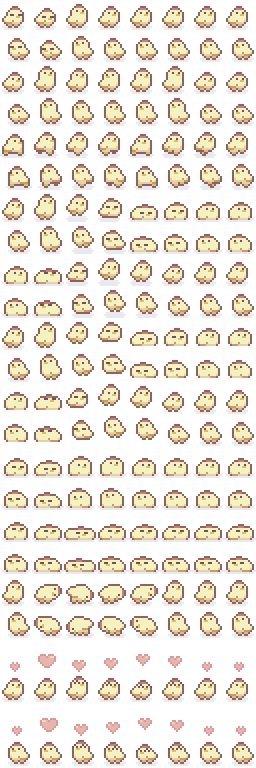
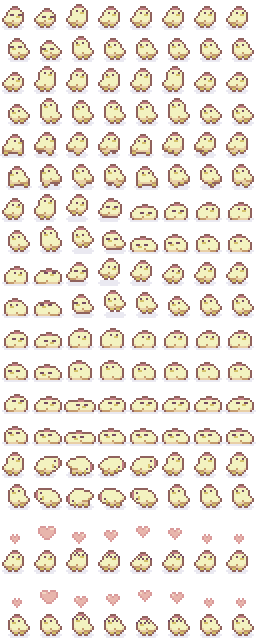
interact with chickens

diff --git a/entity/game/init.go b/entity/game/init.go
@@ -36,20 +36,29 @@ func (g *Game) Draw(screen *ebiten.Image) {
 	// draw chickens
 	for _, c := range g.Chickens {
 		drawOptions.GeoM.Reset()
-		drawOptions.GeoM.Translate(float64(c.XLoc), float64(c.YLoc))
-		screen.DrawImage(c.Spritesheet.SubImage(image.Rect(c.Frame*c.SpriteWidth,
-			(c.State*utils.AnimalNumOfDirections+c.Direction)*c.SpriteHeight,
-			c.Frame*c.SpriteWidth+c.SpriteWidth,
-			(c.State*utils.NumOfDirections+c.Direction)*c.SpriteHeight+c.SpriteHeight)).(*ebiten.Image), &drawOptions)
+
+		var spriteHeight, yLoc int
+		if c.State == utils.ChickenHeartState {
+			spriteHeight = utils.UnitSize * 2
+			yLoc = c.YLoc - utils.UnitSize
+		} else {
+			spriteHeight = c.Sprite.Height
+			yLoc = c.YLoc
+		}
+		drawOptions.GeoM.Translate(float64(c.XLoc), float64(yLoc))
+		screen.DrawImage(c.Spritesheet.SubImage(image.Rect(c.Frame*c.Sprite.Width,
+			(c.State*utils.AnimalNumOfDirections+c.Direction)*c.Sprite.Height,
+			c.Frame*c.Sprite.Width+c.Sprite.Width,
+			(c.State*utils.AnimalNumOfDirections+c.Direction)*c.Sprite.Height+spriteHeight)).(*ebiten.Image), &drawOptions)
 	}
 
 	// draw player
 	drawOptions.GeoM.Reset()
 	drawOptions.GeoM.Translate(float64(g.Player.XLoc), float64(g.Player.YLoc))
-	screen.DrawImage(g.Player.Spritesheet.SubImage(image.Rect(g.Player.Frame*g.Player.SpriteWidth,
-		(g.Player.State*utils.NumOfDirections+g.Player.Direction)*g.Player.SpriteHeight,
-		g.Player.Frame*g.Player.SpriteWidth+g.Player.SpriteWidth,
-		(g.Player.State*utils.NumOfDirections+g.Player.Direction)*g.Player.SpriteHeight+g.Player.SpriteHeight)).(*ebiten.Image), &drawOptions)
+	screen.DrawImage(g.Player.Spritesheet.SubImage(image.Rect(g.Player.Frame*g.Player.Sprite.Width,
+		(g.Player.State*utils.NumOfDirections+g.Player.Direction)*g.Player.Sprite.Height,
+		g.Player.Frame*g.Player.Sprite.Width+g.Player.Sprite.Width,
+		(g.Player.State*utils.NumOfDirections+g.Player.Direction)*g.Player.Sprite.Height+g.Player.Sprite.Height)).(*ebiten.Image), &drawOptions)
 
 	// draw tools ui
 	drawOptions.GeoM.Reset()

diff --git a/entity/animal/chicken.go b/entity/animal/chicken.go
@@ -15,24 +15,27 @@ type Chicken struct {
 	YLoc         int
 	Dx           int
 	Dy           int
-	SpriteWidth  int
-	SpriteHeight int
+	Sprite       model.SpriteBody
 	Collision    model.CollisionBody
 	Destination  utils.Location
 	AnimationTTL int
 }
 
-func NewChicken(spritesheet *ebiten.Image) *Chicken {
-	xLoc := 5 * utils.TileWidth
-	yLoc := 5 * utils.TileHeight
+func NewChicken(spritesheet *ebiten.Image, tileX, tileY int) *Chicken {
+	xLoc := tileX * utils.TileWidth
+	yLoc := tileY * utils.TileHeight
 	return &Chicken{
-		Spritesheet:  spritesheet,
-		State:        utils.ChickenIdleState,
-		Direction:    utils.AnimalRight,
-		XLoc:         xLoc,
-		YLoc:         yLoc,
-		SpriteWidth:  utils.UnitSize,
-		SpriteHeight: utils.UnitSize,
+		Spritesheet: spritesheet,
+		State:       utils.ChickenIdleState,
+		Direction:   utils.AnimalRight,
+		XLoc:        xLoc,
+		YLoc:        yLoc,
+		Sprite: model.SpriteBody{
+			X:      xLoc,
+			Y:      yLoc,
+			Width:  utils.UnitSize,
+			Height: utils.UnitSize,
+		},
 		Collision: model.CollisionBody{
 			X0: xLoc + 8,
 			Y0: yLoc + 16,
@@ -44,6 +47,13 @@ func NewChicken(spritesheet *ebiten.Image) *Chicken {
 
 func (c *Chicken) UpdateFrame(currentFrame int) {
 	if currentFrame%utils.AnimalFrameDelay == 0 {
+		if c.AnimationTTL > 1 {
+			c.AnimationTTL -= 1
+		} else if c.AnimationTTL == 1 {
+			c.AnimationTTL -= 1
+			c.State = utils.ChickenIdleState
+		}
+
 		c.Frame += 1
 		if c.Frame >= utils.AnimalFrameCount {
 			c.Frame = 0

diff --git a/entity/game/get_input.go b/entity/game/get_input.go
@@ -40,6 +40,16 @@ func checkMouse(g *Game) {
 		}
 	} else if inpututil.IsMouseButtonJustPressed(ebiten.MouseButtonRight) {
 		tileX, tileY := calculateTargetTile(g)
+		mouseX, mouseY := ebiten.CursorPosition()
+
+		// if target tile has an animated character
+		for _, c := range g.Chickens {
+			if isClicked(mouseX, mouseY, c.Sprite) {
+				c.State = utils.ChickenHeartState
+				c.Frame = 0
+				c.AnimationTTL = utils.AnimalFrameCount
+			}
+		}
 
 		// pick up objects from the map
 		emptyTile := tiled.LayerTile{Nil: true}
@@ -73,7 +83,7 @@ func getPlayerInput(g *Game) {
 			g.Player.Dx = 0
 		}
 	} else if ebiten.IsKeyPressed(ebiten.KeyD) &&
-		g.Player.XLoc < utils.MapWidth-g.Player.SpriteWidth {
+		g.Player.XLoc < utils.MapWidth-g.Player.Sprite.Width {
 		g.Player.Direction = utils.Right
 		g.Player.State = utils.WalkState
 		g.Player.Dx += utils.MovementSpeed
@@ -92,7 +102,7 @@ func getPlayerInput(g *Game) {
 			g.Player.Dy = 0
 		}
 	} else if ebiten.IsKeyPressed(ebiten.KeyS) &&
-		g.Player.YLoc < utils.MapHeight-g.Player.SpriteHeight {
+		g.Player.YLoc < utils.MapHeight-g.Player.Sprite.Height {
 		g.Player.Direction = utils.Front
 		g.Player.State = utils.WalkState
 		g.Player.Dy += utils.MovementSpeed

diff --git a/entity/player/player.go b/entity/player/player.go
@@ -16,8 +16,7 @@ type Player struct {
 	YLoc         int
 	Dy           int
 	Dx           int
-	SpriteWidth  int
-	SpriteHeight int
+	Sprite       model.SpriteBody
 	Collision    model.CollisionBody
 	Backpack     [utils.BackpackSize]BackpackItem
 	EquippedItem int
@@ -32,11 +31,15 @@ func NewPlayer(spritesheet *ebiten.Image) *Player {
 	xLoc := utils.StartingX * utils.TileWidth
 	yLoc := utils.StartingY * utils.TileWidth
 	return &Player{
-		Spritesheet:  spritesheet,
-		XLoc:         xLoc,
-		YLoc:         yLoc,
-		SpriteWidth:  utils.PlayerSpriteWidth,
-		SpriteHeight: utils.PlayerSpriteHeight,
+		Spritesheet: spritesheet,
+		XLoc:        xLoc,
+		YLoc:        yLoc,
+		Sprite: model.SpriteBody{
+			X:      xLoc,
+			Y:      yLoc,
+			Width:  utils.PlayerSpriteWidth,
+			Height: utils.PlayerSpriteHeight,
+		},
 		Collision: model.CollisionBody{
 			X0: xLoc + 39,
 			Y0: yLoc + 50,
@@ -97,11 +100,11 @@ func (p *Player) GetDy() int {
 }
 
 func (p *Player) GetWidth() int {
-	return p.SpriteWidth
+	return p.Sprite.Width
 }
 
 func (p *Player) GetHeight() int {
-	return p.SpriteHeight
+	return p.Sprite.Height
 }
 
 func (p *Player) UpdateLocation() {

diff --git a/entity/game/collision.go b/entity/game/collision.go
@@ -58,6 +58,26 @@ func hasCollision(dx, dy int, bodyA, bodyB model.CollisionBody) bool {
 	return false
 }
 
+func isClicked(x, y int, body model.SpriteBody) bool {
+	// check if mouse clicked on a body
+	aBounds := collision.BoundingBox{
+		X:      float64(x),
+		Y:      float64(y),
+		Width:  1,
+		Height: 1,
+	}
+	bBounds := collision.BoundingBox{
+		X:      float64(body.X),
+		Y:      float64(body.Y),
+		Width:  float64(body.Width),
+		Height: float64(body.Height),
+	}
+	if collision.AABBCollision(aBounds, bBounds) {
+		return true
+	}
+	return false
+}
+
 func playerHasCollisions(g *Game) bool {
 	// TODO: check for map collisions
 	//if hasMapCollisions(g, g.Player) {

diff --git a/utils/utils.go b/utils/utils.go
@@ -46,6 +46,7 @@ const (
 // animal sprite sheet
 const (
 	ChickenIdleState      = 0
+	ChickenHeartState     = 8
 	AnimalRight           = 0
 	AnimalLeft            = 1
 	AnimalNumOfDirections = 2
@@ -102,17 +103,9 @@ var (
 		"flowers_stones.png",
 		"trees.png",
 	}
-	ChickenPath1 = []Location{
-		{X: 2, Y: 2},
-		{X: 6, Y: 2},
-	}
-	ChickenPath2 = []Location{
-		{X: 4, Y: 3},
-		{X: 4, Y: 6},
-	}
-	DogPath = []Location{
-		{X: 13, Y: 11},
-		{X: 21, Y: 11},
+	ChickenLocations = []Location{
+		{X: 5, Y: 5},
+		{X: 7, Y: 9},
 	}
 )
 

diff --git a/main.go b/main.go
@@ -96,13 +96,17 @@ func main() {
 	if err != nil {
 		fmt.Println("error loading chicken image")
 	}
-	chicken := animal.NewChicken(chickenImage)
+	var chickens []*animal.Chicken
+	for _, v := range utils.ChickenLocations {
+		chicken := animal.NewChicken(chickenImage, v.X, v.Y)
+		chickens = append(chickens, chicken)
+	}
 
 	gameObj := game.Game{
 		Environment: env,
 		CurrentMap:  utils.FarmMap,
 		Player:      playerChar,
-		Chickens:    []*animal.Chicken{chicken},
+		Chickens:    chickens,
 		Images:      images,
 	}
 

diff --git a/entity/model/model.go b/entity/model/model.go
@@ -6,3 +6,10 @@ type CollisionBody struct {
 	X1 int
 	Y1 int
 }
+
+type SpriteBody struct {
+	X      int
+	Y      int
+	Width  int
+	Height int
+}
